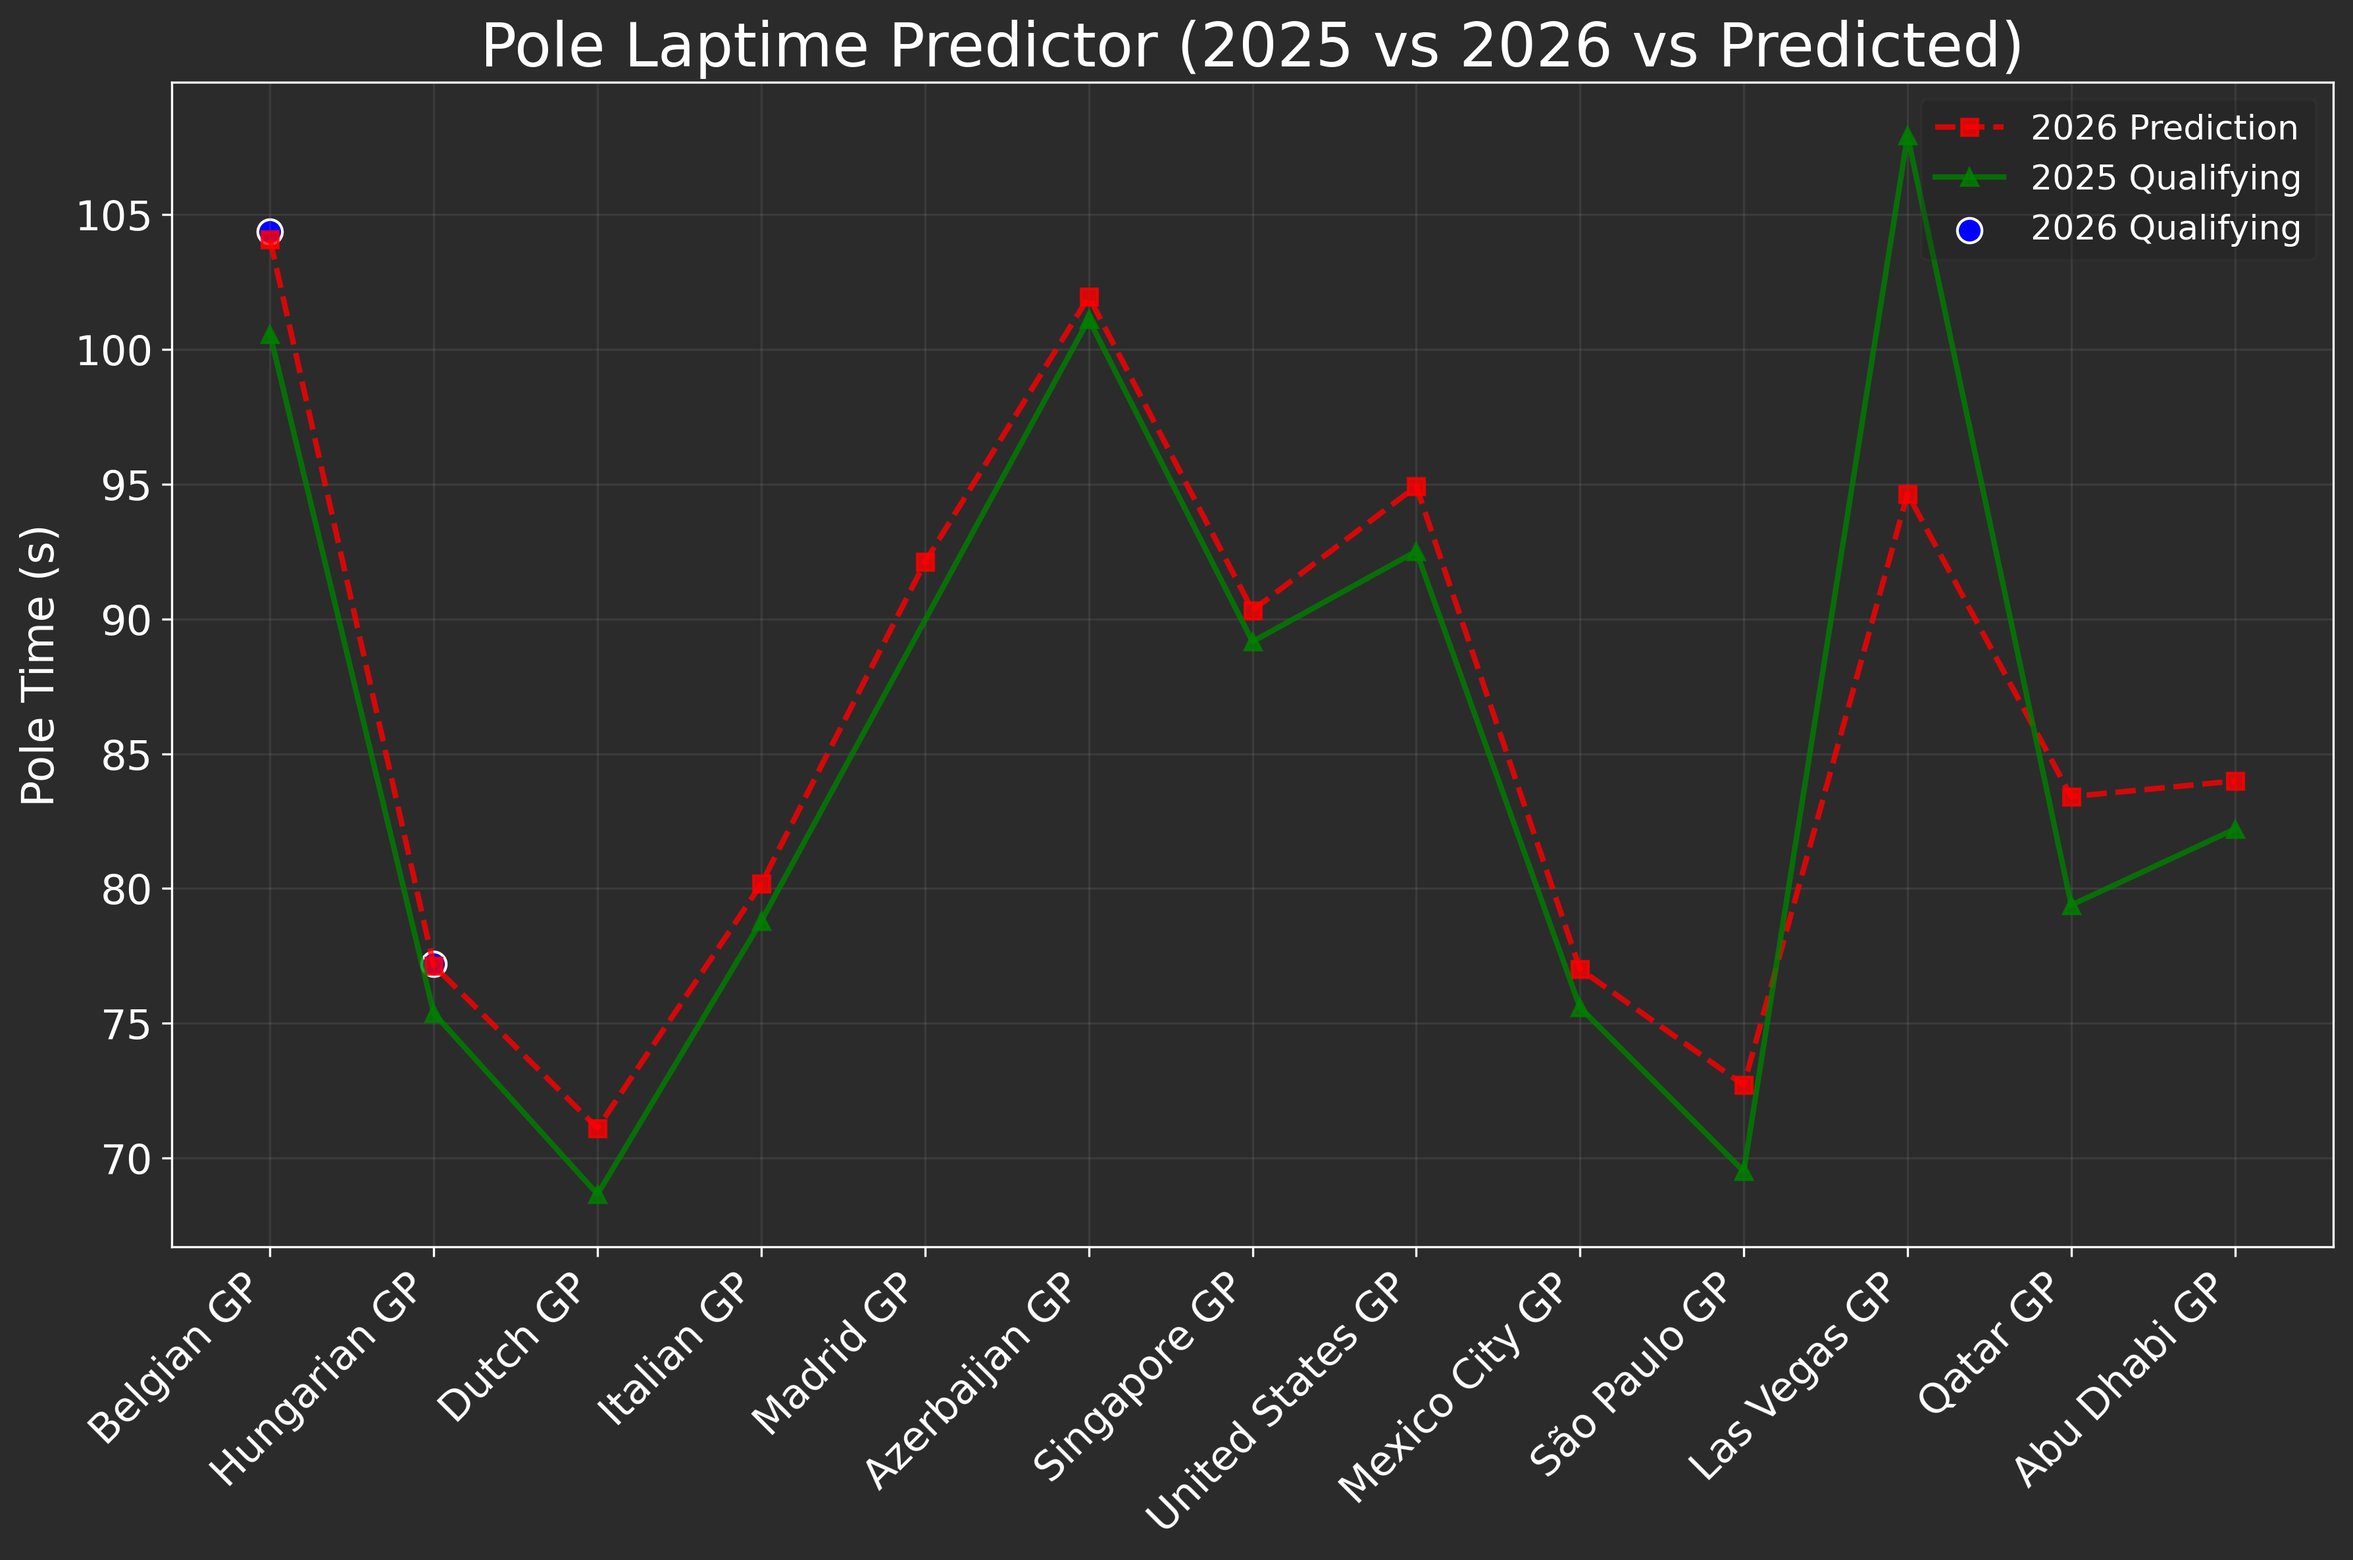
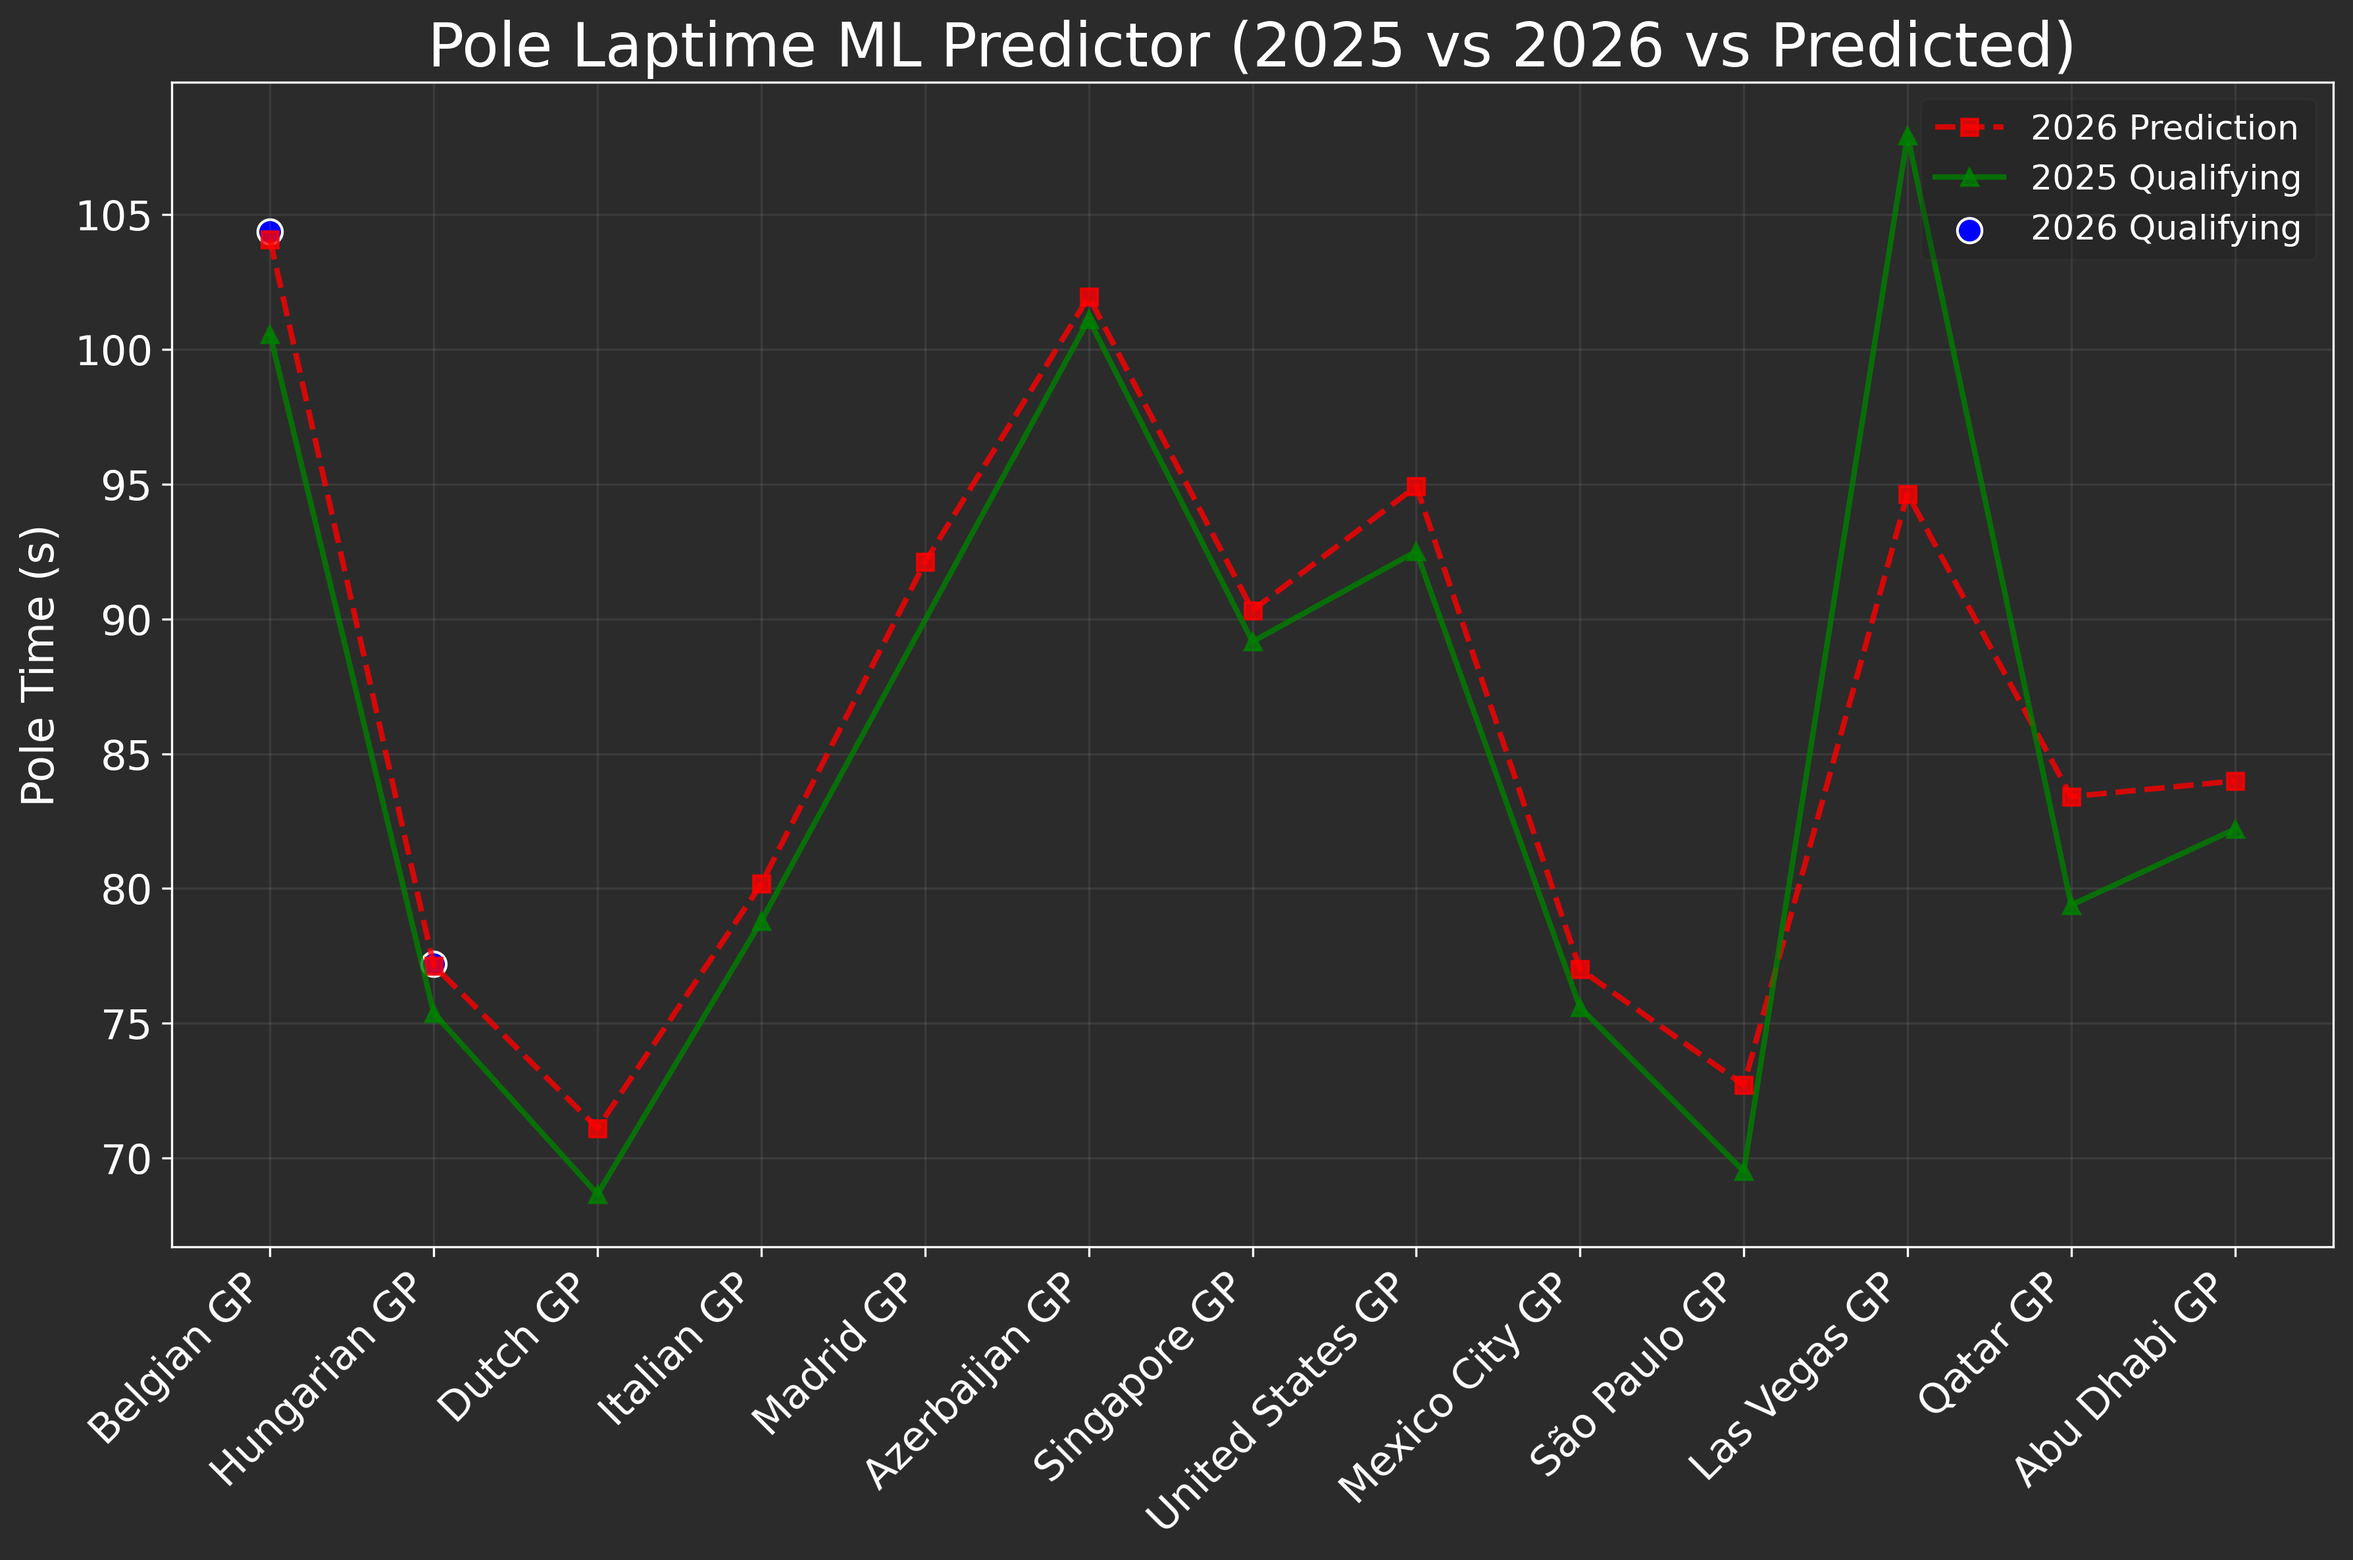
Plotting fixes

Changed region(s): [[0.1862, 0.0, 0.8691, 0.0624]]

diff --git a/plotting.py b/plotting.py
@@ -142,7 +142,7 @@ for (row, col), cell in table.get_celld().items():
 
 
 ax1.set_title(
-    "Formula 1 Pole Lap Time Predictions",
+    "Formula 1 Pole Lap Time ML Predictions",
     fontsize=22,
     color="white",
     pad=30
@@ -209,7 +209,7 @@ ax2.scatter(
 
 
 ax2.set_title(
-    "Pole Laptime Predictor (2025 vs 2026 vs Predicted)",
+    "Pole Laptime ML Predictor (2025 vs 2026 vs Predicted)",
     fontsize=22,
     color="white"
 )
